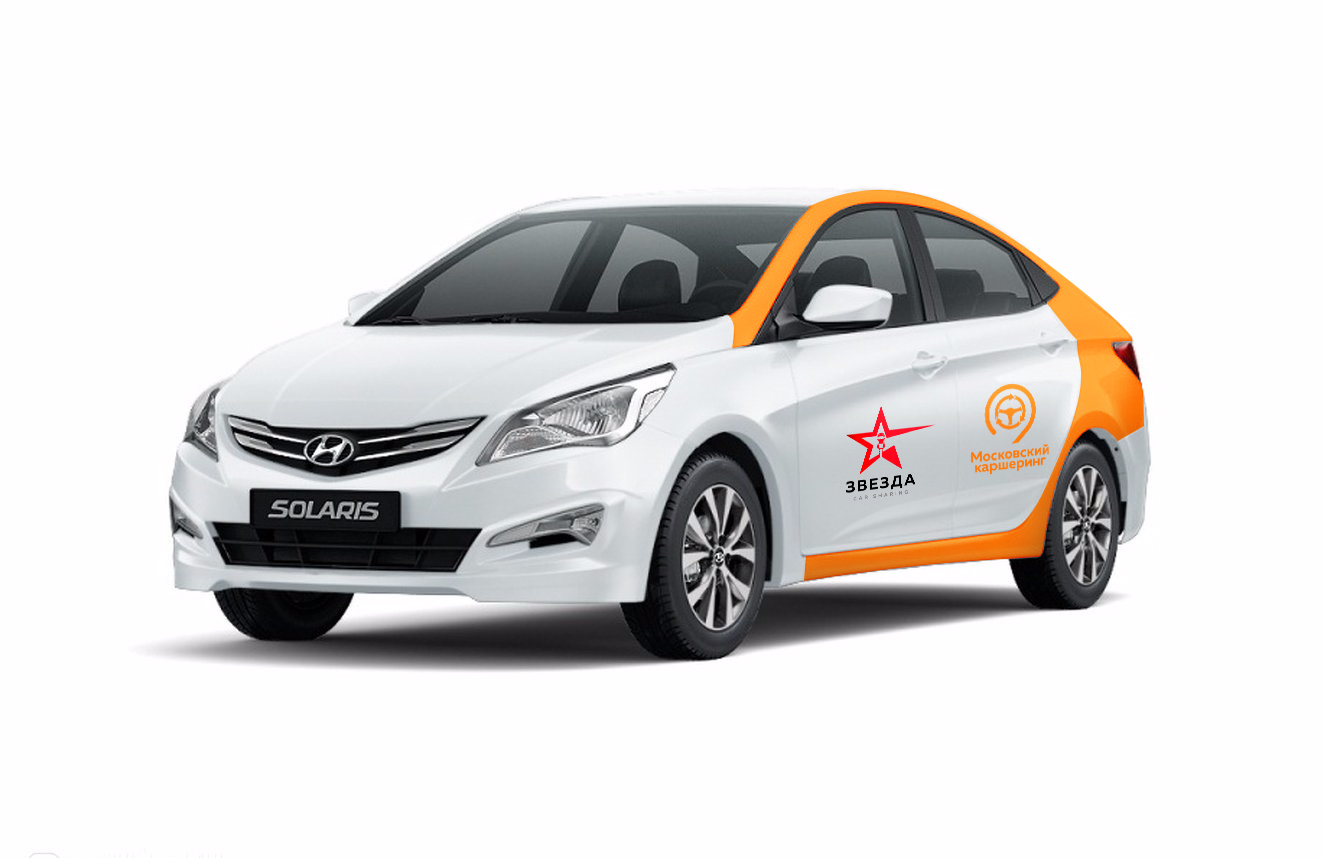
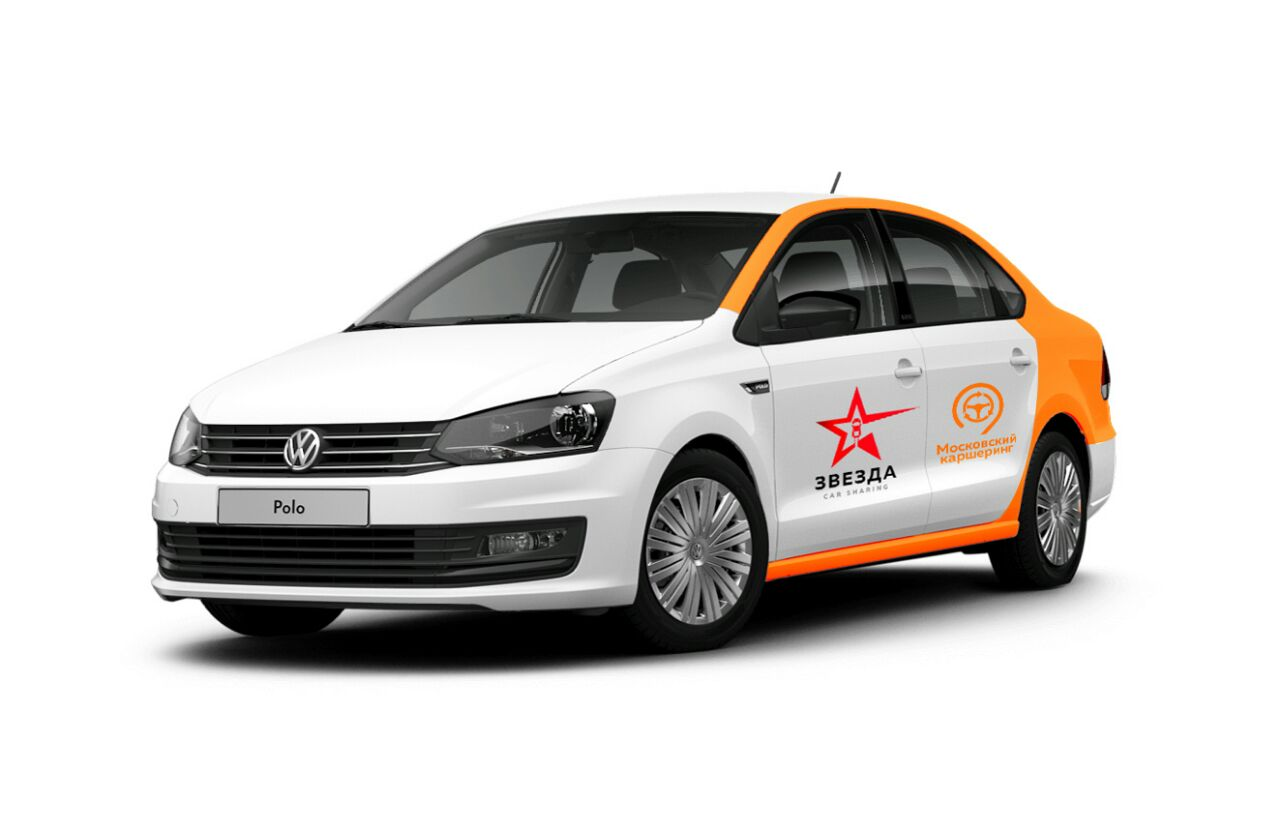
add auto

Changed region(s): [[0.0938, 0.2108, 0.875, 0.8434]]

diff --git a/index.html b/index.html
@@ -272,12 +272,11 @@
               <img class="card-img-top" src="img/1.jpg" alt="Card image cap">
             </div>
             <div class="title-card">
-            <h3 class="text-bold">KIA</h3>
-            <p>Lorem ipsum dolor sit amet consectetur, adipisicing elit. Ducimus, iusto?</p>
+            <h3 class="text-bold">Solaris</h3>
             </div>
           </div>
           <!-- / card item -->
-          <div class="d-flex flex-column card-item">
+          <!-- <div class="d-flex flex-column card-item">
             <div class="card-img">
               <img class="card-img-top" src="img/2.jpg" alt="Card image cap">
             </div>
@@ -285,15 +284,15 @@
             <h3 class="text-bold">KIA</h3>
             <p>Lorem ipsum dolor sit amet consectetur, adipisicing elit. Ducimus, iusto?</p>
             </div>
-          </div>
+          </div> -->
           <!-- / card item -->
           <div class="d-flex flex-column card-item">
             <div class="card-img">
               <img class="card-img-top" src="img/3.jpg" alt="Card image cap">
             </div>
             <div class="title-card">
-            <h3 class="text-bold">KIA</h3>
-            <p>Lorem ipsum dolor sit amet consectetur, adipisicing elit. Ducimus, iusto?</p>
+            <h3 class="text-bold">Skoda Rapid</h3>
+            <!-- <p>Lorem ipsum dolor sit amet consectetur, adipisicing elit. Ducimus, iusto?</p> -->
             </div>
           </div>
           <!-- / card item -->
@@ -302,8 +301,7 @@
               <img class="card-img-top" src="img/4.jpg" alt="Card image cap">
             </div>
             <div class="title-card">
-            <h3 class="text-bold">KIA</h3>
-            <p>Lorem ipsum dolor sit amet consectetur, adipisicing elit. Ducimus, iusto?</p>
+            <h3 class="text-bold">Volkswagen Polo</h3>
             </div>
           </div>
           <!-- / card item -->
@@ -312,8 +310,7 @@
               <img class="card-img-top" src="img/5.jpg" alt="Card image cap">
             </div>
             <div class="title-card">
-            <h3 class="text-bold">KIA</h3>
-            <p>Lorem ipsum dolor sit amet consectetur, adipisicing elit. Ducimus, iusto?</p>
+            <h3 class="text-bold">Kia Rio</h3>
             </div>
           </div>
           <!-- / card item -->
